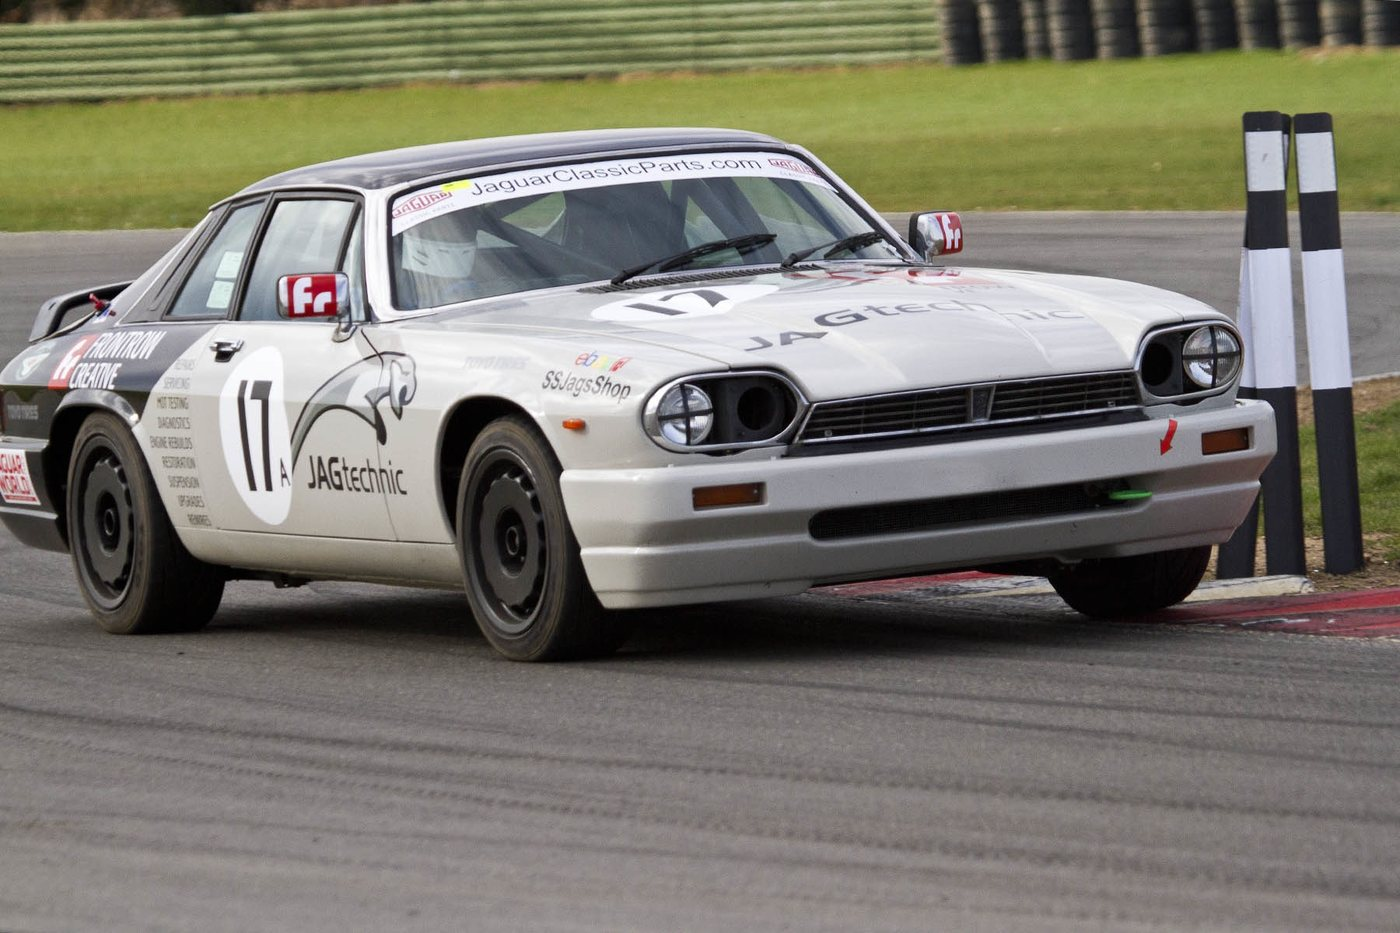
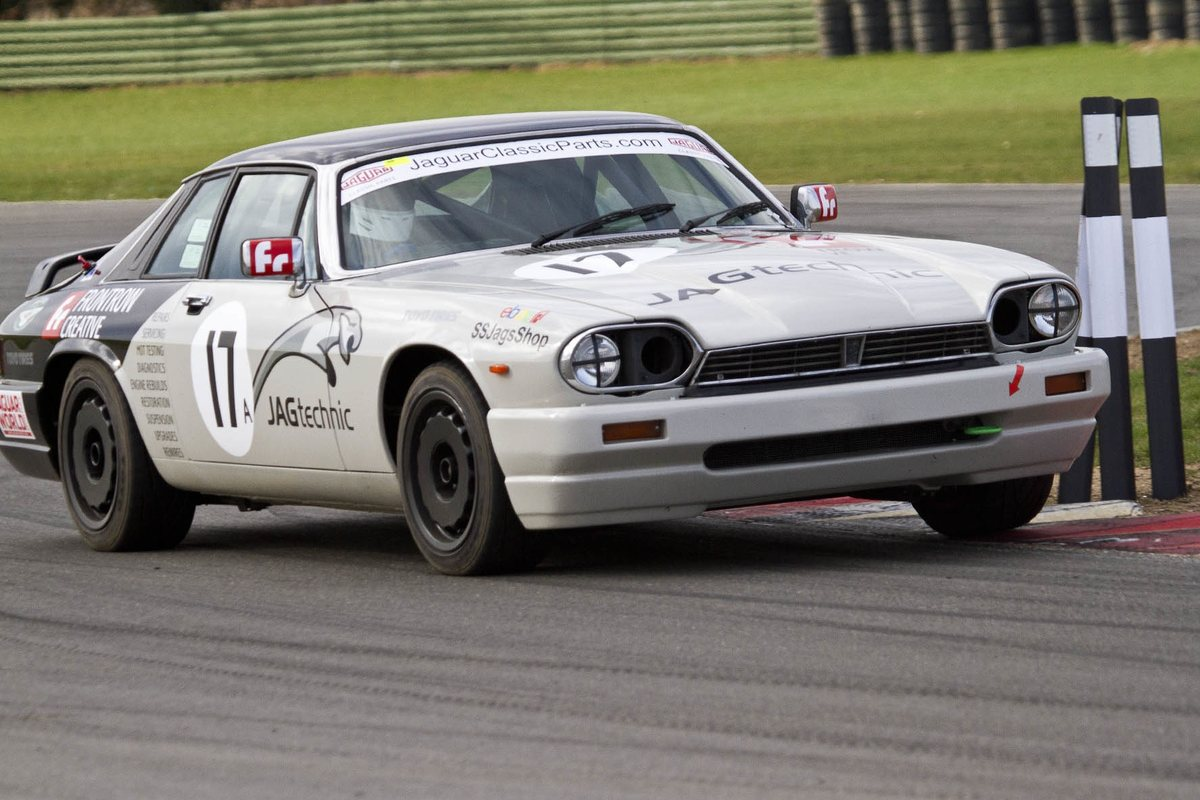
Vehicle-ography: tighter, consistent crops on every car

diff --git a/cars.html b/cars.html
@@ -59,7 +59,7 @@
     </nav>
     <div class="garage-list">
       <article class="car" id="locost">
-        <div class="pics"><figure class="photo"><img src="images/locost-frame.jpg" width="1600" height="1202" alt="The Locost's bare steel frame in the garage" loading="lazy"><figcaption class="label">The frame</figcaption></figure><figure class="photo"><img src="images/locost.jpg" width="1600" height="1200" alt="The finished Locost above Beachy Head" loading="lazy"><figcaption class="label">Finished</figcaption></figure></div>
+        <div class="pics"><figure class="photo"><img src="images/cars/locost-frame.jpg" width="1200" height="800" alt="The Locost's bare steel frame in the garage" loading="lazy"><figcaption class="label">The frame</figcaption></figure><figure class="photo"><img src="images/cars/locost.jpg" width="1200" height="800" alt="The finished Locost above Beachy Head" loading="lazy"><figcaption class="label">Finished</figcaption></figure></div>
         <div class="car-copy">
           <div class="label"><span class="vnum">01</span><span class="yr">2007–present</span>Eastbourne · built at 18</div>
           <h2>Locost</h2>
@@ -67,7 +67,7 @@
         </div>
       </article>
       <article class="car" id="formula-student">
-        <div class="pics one"><figure class="photo"><img src="images/tl-fs.jpg" width="1200" height="800" alt="Formula Student car number 82 on a cone course" loading="lazy"></figure></div>
+        <div class="pics one"><figure class="photo"><img src="images/cars/fs.jpg" width="916" height="611" alt="Formula Student car number 82 on a cone course" loading="lazy"></figure></div>
         <div class="car-copy">
           <div class="label"><span class="vnum">02</span><span class="yr">2011</span>Cambridge</div>
           <h2>Formula Student</h2>
@@ -115,9 +115,9 @@
         </div>
       </article>
       <article class="car" id="roadster">
-        <div class="pics one"><figure class="photo"><img src="images/roadster-wing.jpg" width="1500" height="1000" alt="The new Tesla Roadster at night, doors up and rear wing deployed" loading="lazy"></figure></div>
+        <div class="pics one"><figure class="photo"><img src="images/cars/roadster.jpg" width="1200" height="800" alt="The new Tesla Roadster at night, doors up and rear wing deployed" loading="lazy"></figure></div>
         <div class="car-copy">
-          <div class="label"><span class="vnum">08</span><span class="yr">2022–2026</span>California · 2022–2026</div>
+          <div class="label"><span class="vnum">08</span><span class="yr">2022–2026</span>California</div>
           <h2>Tesla Roadster</h2>
           <p>Led aerodynamic development of the new Roadster, revealed on 15 October 2026. <span class="label">Image: Tesla</span></p>
         </div>
